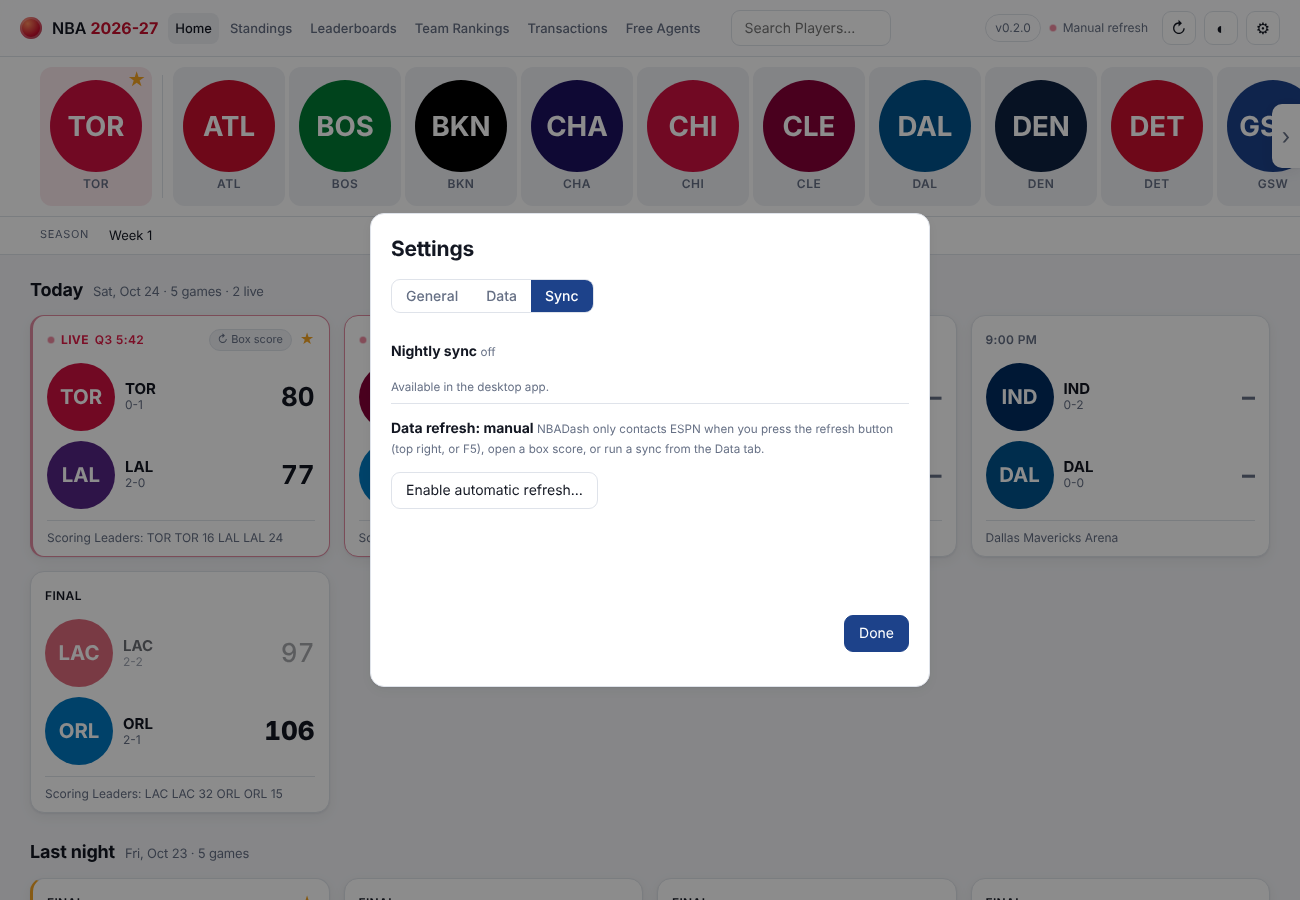
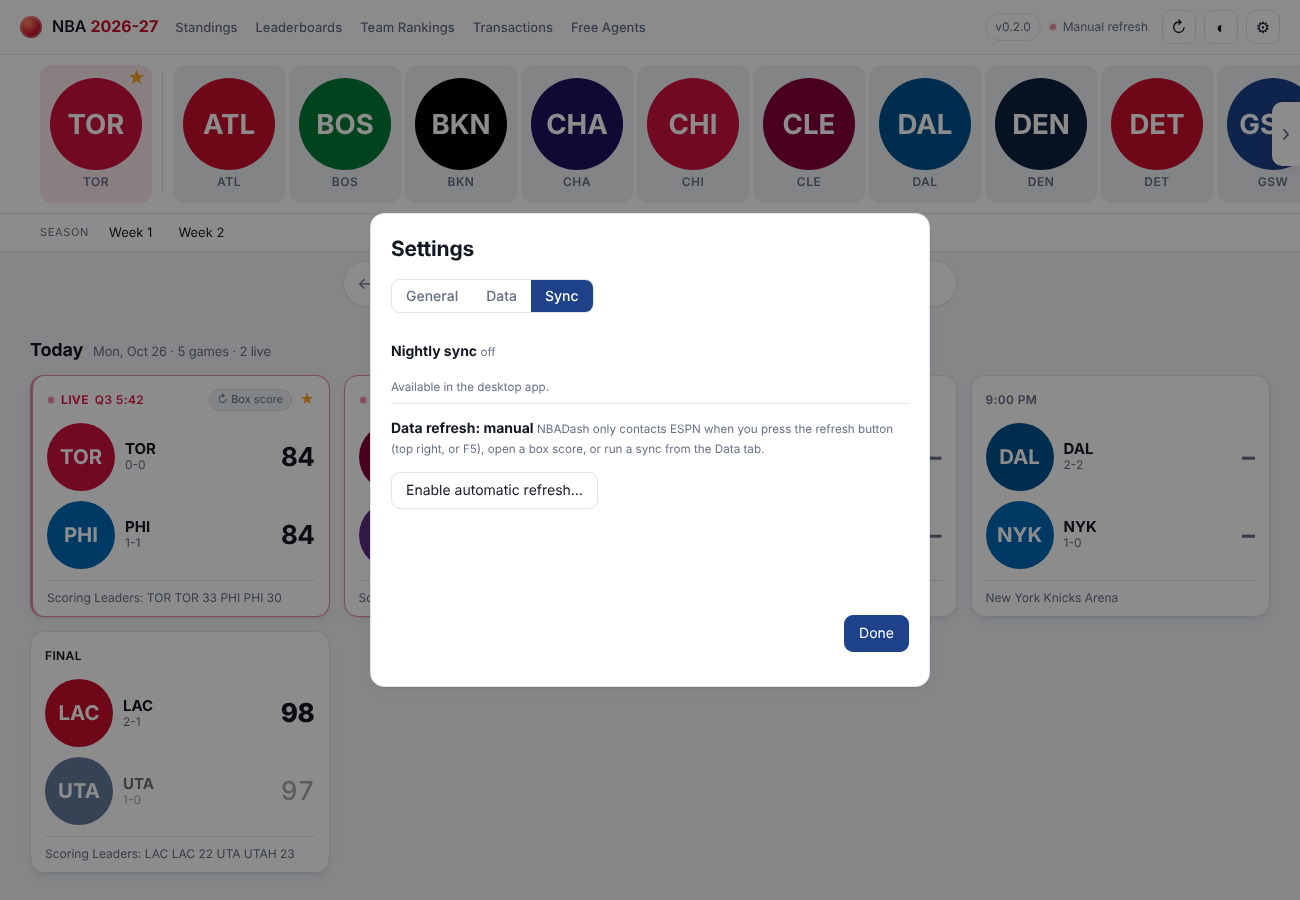
Feature - Players of the week, Starters card; Redesign - navigation bar; Bug/Fix - Monday weeks, fair Losers samples

diff --git a/ui/js/views/week.js b/ui/js/views/week.js
@@ -1,12 +1,60 @@
 import * as S from '../store.js';
 import { h, fmtKey } from '../util.js';
-import { gameCard, sortEvents, sectionHead, emptyState } from '../components.js';
+import { gameCard, sortEvents, sectionHead, emptyState, avatar, headshotUrl, playerLink, teamLogo } from '../components.js';
+import { lineOf, played, gameScore } from '../stats.js';
+import { displayCode } from '../arenas.js';
+import { calc } from '../formulas.js';
 
 let week = 0;
 export function mount(ctx) {
   week = Math.max(1, parseInt(ctx.arg, 10) || 1);
-  S.weekDayKeys(week).forEach((k) => S.loadDay(k));
+  Promise.all(S.weekDayKeys(week).map((k) => S.loadDay(k))).then(() => loadWeekBoxes(ctx));
   draw(ctx);
+}
+
+// Players of the week from the saved box scores of that week's finished games.
+let weekBoxes = { week: 0, boxes: [] };
+async function loadWeekBoxes(ctx) {
+  const w = week;
+  await S.refreshCachedBoxes();
+  const ids = S.weekDayKeys(w).flatMap((k) => (S.state.days.get(k)?.events || []).filter((e) => e.state === 'post').map((e) => e.id))
+    .filter((id) => S.state.cachedBoxIds.has(String(id)));
+  const boxes = (await Promise.all(ids.map((id) => S.loadBoxFile(id)))).filter(Boolean);
+  if (w === week) { weekBoxes = { week: w, boxes }; draw(ctx); }
+}
+
+// Best: highest Game Score per game. Worst is kept fair: only rotation players (20+ minutes a game, and at least
+// 2 games or every game their team played that week), so end-of-bench and garbage-time minutes never count.
+export const POW = { minMpg: 20, minGames: 2, garbageMin: 8 };
+function playersOfWeek(boxes) {
+  const P = new Map(), teamGames = new Map();
+  for (const b of boxes) for (const t of b.teams) {
+    teamGames.set(t.team, (teamGames.get(t.team) || 0) + 1);
+    for (const p of t.players) {
+      if (!played(p)) continue;
+      const l = lineOf(t.labels, p.stats);
+      if (!(l.min >= POW.garbageMin)) continue;                       // a few garbage-time minutes are not a real game
+      const e = P.get(p.id) || { id: p.id, name: p.name, team: t.team, gp: 0, min: 0, gs: 0, pts: 0, reb: 0, ast: 0, fgm: 0, fga: 0 };
+      e.gp++; e.min += l.min; e.gs += gameScore(l); e.pts += l.pts; e.reb += l.reb; e.ast += l.ast; e.fgm += l.fgm; e.fga += l.fga; e.team = t.team;
+      P.set(p.id, e);
+    }
+  }
+  const all = [...P.values()].map((e) => ({ ...e, v: e.gs / e.gp, mpg: e.min / e.gp }));
+  const rotation = all.filter((e) => e.mpg >= POW.minMpg && e.gp >= Math.min(POW.minGames, teamGames.get(e.team) || 1));
+  const best = rotation.slice().sort((a, b) => b.v - a.v || b.min - a.min).slice(0, 3);
+  const worst = rotation.filter((e) => !best.includes(e)).sort((a, b) => a.v - b.v || b.min - a.min).slice(0, 3);
+  return { best, worst, n: rotation.length };
+}
+
+function powCard(title, list, worst) {
+  return h('section', { class: 'card leader-card pow-card' },
+    h('header', null, h('h3', null, h('span', calc('gamescore'), title)), h('small', null, 'Game Score per game')),
+    list.length ? h('ol', null, list.map((e, i) => h('li', { class: i === 0 ? 'first' : '' },
+      h('span', { class: 'rk' }, i + 1), avatar(e.name, headshotUrl(e.id), i === 0 ? 44 : 32),
+      h('span', { class: 'nm' }, h('b', null, playerLink(e.id, e.name)),
+        h('small', null, h('span', { class: 'nm-team' }, teamLogo(e.team, 14), `${displayCode(e.team)} \u00b7 ${e.gp} GP \u00b7 ${(e.pts / e.gp).toFixed(1)} PTS \u00b7 ${(e.reb / e.gp).toFixed(1)} REB \u00b7 ${(e.ast / e.gp).toFixed(1)} AST \u00b7 ${e.fga ? Math.round(100 * e.fgm / e.fga) : 0}% FG \u00b7 ${Math.round(e.mpg)} MIN`))),
+      h('span', { class: 'val' }, e.v.toFixed(1)))))
+      : h('p', { class: 'muted pad' }, worst ? 'Not enough rotation players yet' : 'No finished games yet'));
 }
 export function update(topics, ctx) { if (['days', 'favorites', 'watch', 'teams', 'box'].some((t) => topics.has(t))) draw(ctx); }
 
@@ -21,6 +69,11 @@ function draw({ el }) {
     if (!events.length) continue;
     games += events.length;
     out.push(sectionHead(fmtKey(k), `${events.length} game${events.length === 1 ? '' : 's'}`), h('div', { class: 'grid' }, events.map((e) => gameCard(e))));
+  }
+  if (weekBoxes.week === week && weekBoxes.boxes.length) {
+    const r = playersOfWeek(weekBoxes.boxes);
+    out.splice(1, 0, h('div', { class: 'pow' }, powCard('Best of the week', r.best, false), powCard('Worst of the week', r.worst, true)),
+      h('p', { class: 'muted pow-note' }, `From ${weekBoxes.boxes.length} saved box score${weekBoxes.boxes.length === 1 ? '' : 's'}. Worst only counts rotation players: 20+ minutes a game and at least 2 games (or every game their team played), and games under 8 minutes are ignored.`));
   }
   if (!games) out.push(emptyState('No games saved for this week', 'Use "Fill in season history" in settings to download them.'));
   el.replaceChildren(...out);

diff --git a/ui/js/stats.js b/ui/js/stats.js
@@ -132,13 +132,15 @@ const pct = (m, a) => (a > 0 ? (100 * m) / a : NaN);
 
 // minGames-scaled qualification keeps tiny samples out early in the season
 export const LEADER_DEFS = [
+  { key: 'ptsStarters', loser: 'Fewest Points (Starters)', loserOnly: true, title: 'Points (Starters)', unit: 'PPG', v: (p) => per(p, 'pts'), f: 1,
+    ok: (p) => p.gs * 2 >= p.gp, sub: (p) => `${p.gs} GS \u00b7 ${p.gp} GP` },
   { key: 'pts', loser: 'Fewest Points', title: 'Points', unit: 'PPG', v: (p) => per(p, 'pts'), f: 1 },
   { key: 'reb', title: 'Rebounds', unit: 'RPG', v: (p) => per(p, 'reb'), f: 1 },
   { key: 'ast', title: 'Assists', unit: 'APG', v: (p) => per(p, 'ast'), f: 1 },
   { key: 'tpm', title: '3-Pointers Made', unit: '3PM/G', v: (p) => per(p, 'tpm'), f: 1 },
   { key: 'fgp', loser: 'Worst Field Goal %', title: 'Field Goal %', unit: 'FG%', v: (p) => pct(p.tot.fgm, p.tot.fga), f: 1, suffix: '%', ok: (p, a) => p.tot.fga >= 3 * a.games, sub: (p) => `${p.tot.fgm}/${p.tot.fga} FG` },
-  { key: 'tpp', loser: 'Worst 3-Point %', title: '3-Point %', unit: '3P%', v: (p) => pct(p.tot.tpm, p.tot.tpa), f: 1, suffix: '%', ok: (p, a) => p.tot.tpa >= 1 * a.games, sub: (p) => `${p.tot.tpm}/${p.tot.tpa} 3PT` },
-  { key: 'ftp', loser: 'Worst Free Throw %', title: 'Free Throw %', unit: 'FT%', v: (p) => pct(p.tot.ftm, p.tot.fta), f: 1, suffix: '%', ok: (p, a) => p.tot.fta >= 1 * a.games, sub: (p) => `${p.tot.ftm}/${p.tot.fta} FT` },
+  { key: 'tpp', loser: 'Worst 3-Point %', title: '3-Point %', unit: '3P%', v: (p) => pct(p.tot.tpm, p.tot.tpa), f: 1, suffix: '%', ok: (p, a) => p.tot.tpa >= 1 * a.games, okWorst: (p) => p.tot.tpa >= 10, sub: (p) => `${p.tot.tpm}/${p.tot.tpa} 3PT` },
+  { key: 'ftp', loser: 'Worst Free Throw %', title: 'Free Throw %', unit: 'FT%', v: (p) => pct(p.tot.ftm, p.tot.fta), f: 1, suffix: '%', ok: (p, a) => p.tot.fta >= 1 * a.games, okWorst: (p) => p.tot.fta >= 5, sub: (p) => `${p.tot.ftm}/${p.tot.fta} FT` },
   { key: 'stl', title: 'Steals', unit: 'SPG', v: (p) => per(p, 'stl'), f: 1 },
   { key: 'blk', title: 'Blocks', unit: 'BPG', v: (p) => per(p, 'blk'), f: 1 },
   { key: 'stocks', title: 'Stocks (Steals + Blocks)', unit: 'per game', v: (p) => (p.tot.stl + p.tot.blk) / p.gp, f: 1 },
@@ -158,7 +160,7 @@ export const LEADER_DEFS = [
 ];
 
 // Ranks players for every category. ctxFor(p) gives that player's team context {games, T, O}.
-// minMpg: minutes per team game needed to appear at all; minGpShare: share of team games the player must have played.
+// minMpg: minutes per game played needed to appear at all; minGpShare: share of team games the player must have played.
 // worst: the Losers view. Same qualification, reversed order, and only the categories where a low number means a player is bad at the game.
 // Small edge for a bigger sample: each value is pulled toward the pool average as if half an average game were added,
 // so a player with more games ranks ahead of one with fewer games and a near-identical number. The value shown is unchanged.
@@ -174,7 +176,7 @@ export function rankAll(players, ctxFor, top, { minMpg = 8, minGpShare = 0, wors
     const rows = players
       .filter((p) => {
         const c = ctxFor(p);
-        return c && c.games > 0 && p.gp > 0 && p.gp >= Math.ceil(minGpShare * c.games) && p.tot.min / c.games >= minMpg && (!d.ok || d.ok(p, c));
+        return c && c.games > 0 && p.gp > 0 && p.gp >= Math.ceil(minGpShare * c.games) && p.tot.min / p.gp >= minMpg && (!d.ok || d.ok(p, c)) && (!worst || !d.okWorst || d.okWorst(p));
       })
       .map((p) => ({ p, value: d.v(p, ctxFor(p)) }))
       .filter((r) => Number.isFinite(r.value));

diff --git a/ui/index.html b/ui/index.html
@@ -17,18 +17,12 @@
         <span class="brand-text">NBA <b>2026-27</b></span>
       </button>
       <nav id="nav" class="nav" aria-label="Sections">
-        <a href="#/" data-route="home">Home</a>
         <a href="#/standings" data-route="standings">Standings</a>
         <a href="#/leaders" data-route="leaders">Leaderboards</a>
         <a href="#/rankings" data-route="rankings">Team Rankings</a>
         <a href="#/transactions" data-route="transactions">Transactions</a>
         <a href="#/freeagents" data-route="freeagents">Free Agents</a>
       </nav>
-      <div class="psearch">
-        <div id="psearch-ghost" class="psearch-ghost" aria-hidden="true"></div>
-        <input id="psearch" type="search" placeholder="Search Players..." autocomplete="off" spellcheck="false" aria-label="Search players">
-        <div id="psearch-results" class="psearch-results" hidden></div>
-      </div>
       <div class="topbar-right">
         <button id="btn-version" class="ver-btn" type="button" hidden title="Check for updates"></button>
         <span id="live-status" class="live-status" title=""></span>
@@ -41,6 +35,19 @@
     <div id="syncbar" class="syncbar" hidden role="status"><div class="syncbar-fill"></div><span class="syncbar-text"></span></div>
     <nav id="banner" class="banner" aria-label="Teams"></nav>
     <nav id="weekbar" class="weekbar" aria-label="Weeks" hidden></nav>
+    <div class="navpill-row">
+      <div id="navpill" class="navpill" role="navigation" aria-label="Page navigation">
+        <button id="btn-back" class="np-btn" type="button" title="Back (Alt+Left)" aria-label="Back"><svg viewBox="0 0 24 24" width="22" height="22" aria-hidden="true"><path d="M15 5l-7 7 7 7" fill="none" stroke="currentColor" stroke-width="2.4" stroke-linecap="round" stroke-linejoin="round"/></svg></button>
+        <button id="btn-fwd" class="np-btn" type="button" title="Forward (Alt+Right)" aria-label="Forward"><svg viewBox="0 0 24 24" width="22" height="22" aria-hidden="true"><path d="M9 5l7 7-7 7" fill="none" stroke="currentColor" stroke-width="2.4" stroke-linecap="round" stroke-linejoin="round"/></svg></button>
+        <a id="btn-home" class="np-btn" href="#/" title="Home" aria-label="Home" data-route="home"><svg viewBox="0 0 24 24" width="22" height="22" aria-hidden="true"><path d="M4 10.5 12 4l8 6.5V19a1 1 0 0 1-1 1h-4.5v-5.5h-5V20H5a1 1 0 0 1-1-1z" fill="none" stroke="currentColor" stroke-width="2.4" stroke-linejoin="round"/></svg></a>
+        <span class="np-sep" aria-hidden="true"></span>
+        <div class="psearch">
+          <div id="psearch-ghost" class="psearch-ghost" aria-hidden="true"></div>
+          <input id="psearch" type="search" placeholder="Search Players..." autocomplete="off" spellcheck="false" aria-label="Search players">
+          <div id="psearch-results" class="psearch-results" hidden></div>
+        </div>
+      </div>
+    </div>
     </div>
     <main id="view" class="view" tabindex="-1"></main>
   </div>

diff --git a/ui/css/app.css b/ui/css/app.css
@@ -423,3 +423,32 @@ a.plink:hover { color: var(--accent2); }
 /* six nav links: tighten earlier, and drop the brand text on narrow windows */
 @media (max-width: 1440px) { #topbar { gap: 10px; } .nav a { padding: 6px 7px; font-size: 13px; } .psearch input { width: 160px; } }
 @media (max-width: 1180px) { .brand-text { display: none; } .psearch input { width: 130px; } .nav { gap: 0; } }
+.back-btn { flex: 0 0 auto; font-size: 16px; }
+
+/* page navigation pill: back, forward, home and player search, under the week bar */
+.navpill-row { display: flex; justify-content: center; padding: 8px 16px; background: var(--bg); }
+.navpill { display: flex; align-items: center; gap: 2px; padding: 4px; border-radius: 999px; background: var(--surface); border: 1px solid var(--line); box-shadow: 0 1px 2px rgba(0,0,0,.06); }
+.np-btn { display: inline-flex; align-items: center; justify-content: center; width: 34px; height: 34px; border-radius: 999px; border: 0; background: transparent; color: var(--muted); font-size: 16px; cursor: pointer; text-decoration: none; }
+.np-btn:hover { background: var(--surface2); color: var(--text); }
+.np-btn.active { color: var(--accent); }
+.np-sep { width: 1px; height: 20px; background: var(--line); margin: 0 6px 0 4px; }
+.navpill .psearch, .navpill .psearch input { margin: 0; background: transparent; }
+.navpill .psearch input { width: min(483px, 62vw) !important; border: 0; border-radius: 999px; padding: 8px 14px; }
+.navpill .psearch input:focus { outline: none; background: var(--surface2); }
+.navpill .psearch-ghost { padding: 9px 15px; }
+.navpill .psearch-results { left: 50%; transform: translateX(-50%); }
+.pow { display: grid; grid-template-columns: repeat(auto-fit, minmax(340px, 1fr)); gap: 14px; margin-bottom: 4px; }
+.pow-note { margin: 6px 0 14px; font-size: 12.5px; }
+/* square-edged variant of the navigation bar */
+.navpill { border-radius: 0; }
+.np-btn { border-radius: 4px; }
+.navpill .psearch input { border-radius: 4px; }
+/* flush with the week bar: no gap above, sharing the week bar's bottom border */
+.navpill-row { padding: 0 16px 10px; }
+.navpill { border-top: 0; margin-top: -1px; background: var(--surface); }
+/* top border back, matching the sides; bolder back/forward chevrons in the same 34px buttons */
+.navpill { border-top: 1px solid var(--line); margin-top: 0; }
+.np-btn svg { display: block; }
+#btn-back, #btn-fwd { color: var(--text); }
+#btn-home { color: var(--text); }
+#btn-home.active { color: var(--accent); }

diff --git a/ui/js/app.js b/ui/js/app.js
@@ -36,7 +36,7 @@ function route() {
   const map = { '': home, team: teamV, game: gameV, standings, leaders: leadersV, rankings: rankingsV, transactions: txV, freeagents: faV, player: playerV, compare: compareV, week: weekV };
   const mod = map[name] || home;
   const routeName = map[name] ? (name || 'home') : 'home';
-  document.querySelectorAll('#nav a').forEach((a) => a.classList.toggle('active', a.dataset.route === routeName));
+  document.querySelectorAll('#nav a, #btn-home').forEach((a) => a.classList.toggle('active', a.dataset.route === routeName));
   current?.cleanup?.();
   view.replaceChildren();
   const ctx = { el: view, arg: arg ? decodeURIComponent(arg) : '' };
@@ -103,6 +103,16 @@ $('#btn-theme').addEventListener('click', () => {
   const next = order[(order.indexOf(S.state.settings.theme) + 1) % 3];
   S.saveSettings({ theme: next });
 });
+// Back: the page's own history (every view is a #/ route). Also Alt+Left and the mouse's back button.
+let navDepth = 0;
+window.addEventListener('hashchange', () => { navDepth++; });
+const goBack = () => { if (navDepth > 0) { navDepth -= 2; history.back(); } else location.hash = '#/'; };
+$('#btn-fwd').addEventListener('click', () => history.forward());
+document.addEventListener('keydown', (e) => { if (e.altKey && e.key === 'ArrowRight') { e.preventDefault(); history.forward(); } });
+window.addEventListener('mouseup', (e) => { if (e.button === 4) { e.preventDefault(); history.forward(); } });
+$('#btn-back').addEventListener('click', goBack);
+document.addEventListener('keydown', (e) => { if (e.altKey && e.key === 'ArrowLeft') { e.preventDefault(); goBack(); } });
+window.addEventListener('mouseup', (e) => { if (e.button === 3) { e.preventDefault(); goBack(); } });
 $('#btn-settings').addEventListener('click', openSettings);
 $('#btn-version').addEventListener('click', openUpdate);
 

diff --git a/ui/js/store.js b/ui/js/store.js
@@ -50,8 +50,10 @@ export const state = {
 // ---- season weeks: ESPN's "Week 1" is Oct 20-26, 2026 (opening night is a Tuesday); each week runs 7 days from there
 export const SEASON_START = '20261020';
 const keyToUtc = (k) => Date.UTC(+k.slice(0, 4), +k.slice(4, 6) - 1, +k.slice(6, 8));
-export const weekOfKey = (k) => Math.floor((keyToUtc(k) - keyToUtc(SEASON_START)) / 86400000 / 7) + 1;
-export const weekDayKeys = (n) => Array.from({ length: 7 }, (_, i) => addDaysKey(SEASON_START, (n - 1) * 7 + i));
+// Weeks run Monday to Sunday; Week 1 is the Monday-Sunday week the season opens in.
+export const WEEK_START = '20261019';
+export const weekOfKey = (k) => Math.floor((keyToUtc(k) - keyToUtc(WEEK_START)) / 86400000 / 7) + 1;
+export const weekDayKeys = (n) => Array.from({ length: 7 }, (_, i) => addDaysKey(WEEK_START, (n - 1) * 7 + i));
 export const weekRangeLabel = (n) => { const d = weekDayKeys(n); const f = (k) => fmtKey(k, { weekday: undefined }); return `${f(d[0])} - ${f(d[6])}`; };
 // weeks that have at least one saved day, ascending; the link only appears once there is data
 export const weeksWithData = () => [...new Set(state.cachedDayKeys.filter((k) => k >= SEASON_START).map(weekOfKey))].sort((a, b) => a - b);

diff --git a/CHANGELOG.md b/CHANGELOG.md
@@ -7,12 +7,19 @@ Release rhythm: changes are merged as they are done without changing VERSION, an
 ## Unreleased
 
 **Feature**
+- Week pages show the best and worst 3 players of the week (worst counts rotation players only).
+- New Fewest Points (Starters) card, first on the Losers tab.
 - New Free Agents page: recently waived players (including ESPN's official transactions list, loaded on request), a watch list with notes, and a notice when a watched player signs.
 
 **Bug/Fix**
+- Weeks now run Monday to Sunday.
+- Losers cards need a fair sample: 10+ minutes per game played, 5+ free throws for Worst FT%, 10+ threes for Worst 3P%.
 - Fixed bug with injury tags not showing on team rosters.
 - Box scores now list inactive players, with their injury status when known.
 - Fixed bug with player pictures not loading until a player was opened.
+
+**Redesign**
+- New navigation bar under the week bar: back, forward, home and a wider player search.
 
 ## Released
 
